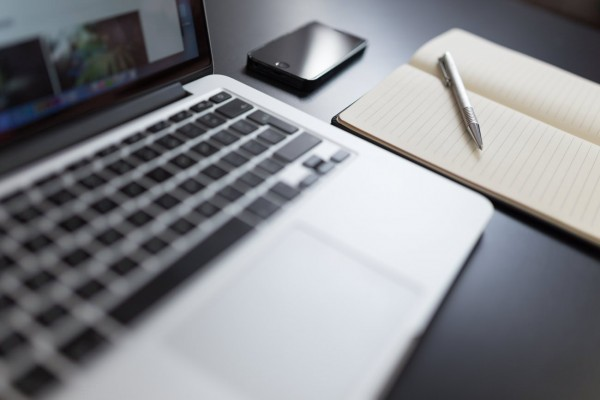
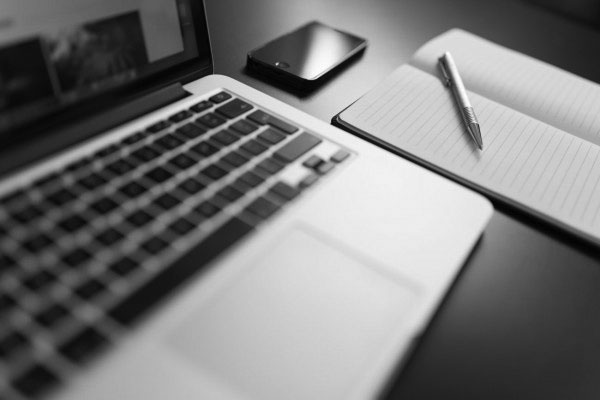
Updated colors

diff --git a/css/main.css b/css/main.css
@@ -1,8 +1,6 @@
     .test1 {
       background: url(../images/computer2.jpg) center no-repeat fixed;
       background-size: cover;
-      -webkit-filter: grayscale(100%);
-      filter: grayscale(100%);
       height: 100vh;
     }
     .test2 {
@@ -11,8 +9,6 @@
     .portfolio {
       background: url(../images/computer.jpg) center no-repeat fixed;
       background-size: cover;
-      -webkit-filter: grayscale(100%);
-      filter: grayscale(100%);
       height: 100vh;
       color: white;
     }
@@ -66,7 +62,7 @@
       color: white;
     }
     .navbar li a:hover, .navbar li a:active {
-      background: rgba(255,255,50,.4);
+      background: rgba(192,192,192,.4);
     }
     .icon-bar {
       background: white;
